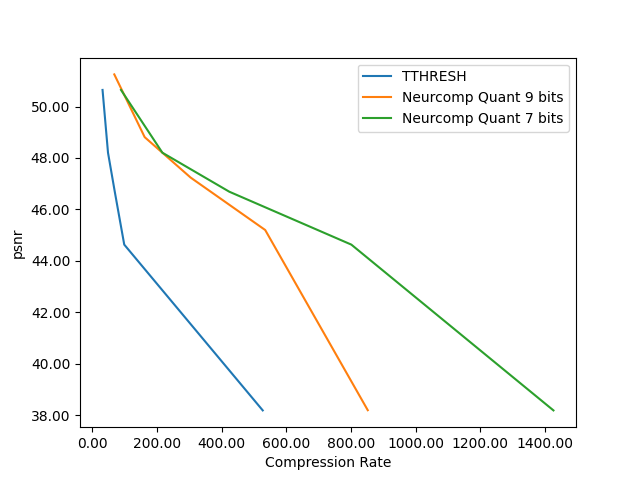
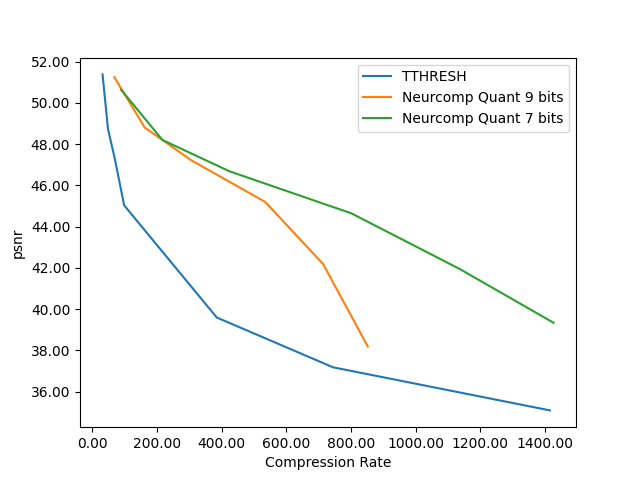
plot appendix

diff --git a/visualization/generatecomprPlot.py b/visualization/generatecomprPlot.py
@@ -110,22 +110,22 @@ def rmseTTHRESHExperiment():
     NeurcompQuantCompRate = [60.230, 126.506, 196.638, 242.587, 272.6391469424025]
 
     # RMSE target
-    tthreshPSNREjecta = [44.583, 42.1581, 40.6303, 38.6363, 33.9794]
-    tthreshRMSEEjecta = [0.005638692785004683, 0.007525124659809455, 0.00890579221394341, 0.011315378855451252, 0.019798166356808308]
-    tthreshCompRateEjeta = [99.914, 182.523, 300.772, 455.698, 1747.54]
+    #tthreshPSNREjecta = [44.583, 42.1581, 40.6303, 38.6363, 33.9794]
+    #tthreshRMSEEjecta = [0.005638692785004683, 0.007525124659809455, 0.00890579221394341, 0.011315378855451252, 0.019798166356808308]
+    #tthreshCompRateEjeta = [99.914, 182.523, 300.772, 455.698, 1747.54]
 
     # PSNR target
-    #tthreshPSNREjecta = [50.6472, 48.2054, 46.6871,44.629, 38.1792]
-    #tthreshRMSEEjecta = [0.00293522, 0.0036583038694397536, 0.00431510500617772, 0.00561060496130343, 0.01184393076485875]
-    #tthreshCompRateEjeta = [31.7948, 48.6868, 69.6177, 98.9255, 527.246]
+    tthreshPSNREjecta = [51.3853, 48.7344, 47.3002, 45.0356, 39.5897, 37.1734, 35.0835]
+    tthreshRMSEEjecta = [0.00269608, 0.0036583, 0.00431511, 0.00560041, 0.0104838, 0.0138462, 0.0176128]
+    tthreshCompRateEjeta = [31.7948, 48.6866, 69.6177, 98.5605, 385.059, 744.975, 1415.74]
 
-    NeurcompQuantPSNREjecta9 = [51.2516, 48.8107, 47.2383, 45.1975, 38.1867]
-    NeurcompQuantRMSEEjecta9 = [0.0055, 0.0073, 0.0087, 0.0110, 0.0246]
-    NeurcompQuantCompRateEjecta9 = [68.13400828871195, 162.11593502691107, 304.1637462947687, 534.8768909505364, 852.1111280410381]
+    NeurcompQuantPSNREjecta9 = [51.2516, 48.8107, 47.2383, 45.1975, 42.1818, 38.1867]
+    NeurcompQuantRMSEEjecta9 = [0.0055, 0.0073, 0.0087, 0.0110, 0.0156, 0.0246]
+    NeurcompQuantCompRateEjecta9 = [68.13400828871195, 162.11593502691107, 304.1637462947687, 534.8768909505364, 714.076016173654, 852.1111280410381]
 
-    NeurcompQuantPSNREjecta7 = [50.6472, 48.2054, 46.6871, 44.6290, 38.1792]
-    NeurcompQuantRMSEEjecta7 = [0.0059, 0.0078, 0.0093, 0.0117, 0.0247]
-    NeurcompQuantCompRateEjecta7 = [88.87720143985888, 216.8677701440639, 423.9186385860296, 801.3381415231772, 1426.4520681885813]
+    NeurcompQuantPSNREjecta7 = [50.6472, 48.20541000366211, 46.6871, 44.6445, 41.9397, 39.33857345581055]
+    NeurcompQuantRMSEEjecta7 = [0.00587, 0.00777, 0.00926, 0.011737, 0.0160, 0.021582484245300293]  # M: last entry makes no sense
+    NeurcompQuantCompRateEjecta7 = [88.87720143985888, 216.8677701440639, 423.9186385860296, 801.3381415231772, 1137.0144014096438, 1426.4520681885813]
 
     NeurcompQuantPSNRmhd_p9 = [50.1259, 49.2033, 45.4834, 40.7906, 36.1277]
     NeurcompQuantRMSEmhd_9 = [0.0062, 0.0069, 0.0106, 0.0183, 0.0312]
@@ -144,7 +144,7 @@ def rmseTTHRESHExperiment():
     tthreshRMSEmhd_p = [0.0014869144161891758, 0.003114780095102444, 0.004981052701820832, 0.008235872355390245,  0.0118234, 0.017433496413122113, 0.0304019, 0.0390439]
     tthreshCompRatemhd_p = [20.7634, 35.9296, 58.0608, 104.395, 172.495, 309.201, 741.548, 1218.99]
 
-    param = 'psnr'#'psnr', 'rmse'
+    param = 'rmse'#'psnr', 'rmse'
 
     mlClient = MlflowClient()
     expList = mlClient.search_experiments()
@@ -165,14 +165,14 @@ def rmseTTHRESHExperiment():
     #plt.plot(NeurcompQuantCompRateEjecta9, NeurcompQuantRMSEEjecta9, label='Neurcomp Quant 9 bits')
     #plt.plot(NeurcompQuantCompRateEjecta7, NeurcompQuantRMSEEjecta7, label='Neurcomp Quant 7 bits')
 
-    #plt.plot(tthreshCompRateEjeta, tthreshPSNREjecta, label='TTHRESH')
-    #plt.plot(NeurcompQuantCompRateEjecta9, NeurcompQuantPSNREjecta9, label='Neurcomp Quant 9 bits')
-    #plt.plot(NeurcompQuantCompRateEjecta7, NeurcompQuantPSNREjecta7, label='Neurcomp Quant 7 bits')
+    plt.plot(tthreshCompRateEjeta, tthreshPSNREjecta, label='TTHRESH')
+    plt.plot(NeurcompQuantCompRateEjecta9, NeurcompQuantPSNREjecta9, label='Neurcomp Quant 9 bits')
+    plt.plot(NeurcompQuantCompRateEjecta7, NeurcompQuantPSNREjecta7, label='Neurcomp Quant 7 bits')
 
-    plt.plot(tthreshCompRatemhd_p, tthreshPSNRmhd_p, label='TTHRESH')
-    plt.plot(NeurcompQuantCompRatemhd_9, NeurcompQuantPSNRmhd_p9, label='Neurcomp Quant 9 bits')
-    plt.plot(NeurcompQuantCompRatemhd_7, NeurcompQuantPSNRmhd_p7, label='Neurcomp Quant 7 bits')
-    plt.plot(NeurcompQuantCompRatemhd_noGrad9, NeurcompQuantPSNRmhd_p_noGrad9, label='Neurcomp Quant 9 bits, no Grad')
+    #plt.plot(tthreshCompRatemhd_p, tthreshPSNRmhd_p, label='TTHRESH')
+    #plt.plot(NeurcompQuantCompRatemhd_9, NeurcompQuantPSNRmhd_p9, label='Neurcomp Quant 9 bits')
+    #plt.plot(NeurcompQuantCompRatemhd_7, NeurcompQuantPSNRmhd_p7, label='Neurcomp Quant 7 bits')
+    #plt.plot(NeurcompQuantCompRatemhd_noGrad9, NeurcompQuantPSNRmhd_p_noGrad9, label='Neurcomp Quant 9 bits, no Grad')
 
     #plt.plot(tthreshCompRatemhd_p, tthreshRMSEmhd_p, label='TTHRESH')
     #plt.plot(NeurcompQuantCompRatemhd_9, NeurcompQuantRMSEmhd_9, label='Neurcomp Quant 9 bits')
@@ -185,7 +185,7 @@ def rmseTTHRESHExperiment():
     plt.ylabel(param)
     plt.legend()
     
-    filepath = 'plots/'+'mhd_p_TTHRESH_'+param+'.png'
+    filepath = 'plots/'+'Ejecta_TTHRESH_'+param+'.png'
     plt.savefig(filepath)
 
 def paramExperiment():
